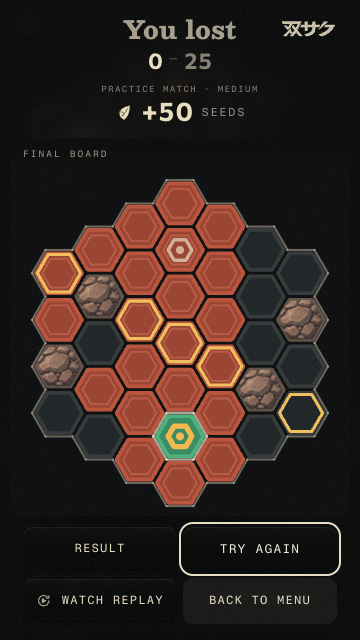
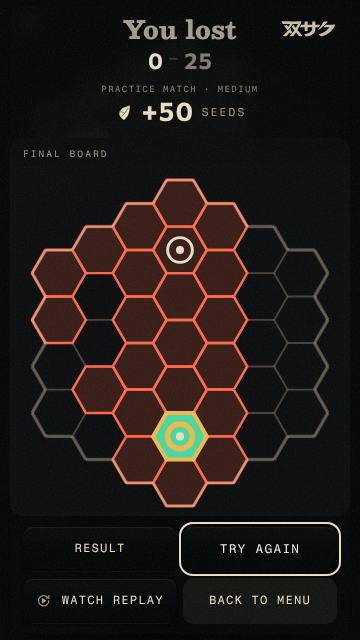
finish: the proof's frames land in /tmp/altview-final
The browser proof now writes its four frames (planet, planet, board, control)
to /tmp/altview-final by default, as the task's evidence path. Also restores
docs/screens/finish/seed-reveal-static-360x640.png, which the parked WIP
commit had overwritten by accident (no layout change in this branch).

Changed region(s): [[0.0917, 0.2812, 0.9167, 0.8125], [0.7944, 0.0312, 0.825, 0.0625]]

diff --git a/web/e2e/finish-altview.ts b/web/e2e/finish-altview.ts
@@ -27,7 +27,7 @@ import { seedSettings, SETTINGS_PREFIXES } from './helpers/settings-seed.js';
 import { positionSave } from './position.js';
 import { resumeSavedGame } from './helpers/menu-nav.js';
 
-const OUT = process.env.ALT_VIEW_OUT ?? '/tmp/altview/';
+const OUT = process.env.ALT_VIEW_OUT ?? '/tmp/altview-final/';
 const PORT = Number(process.env.PORT ?? 4337);
 
 let failed = 0;
